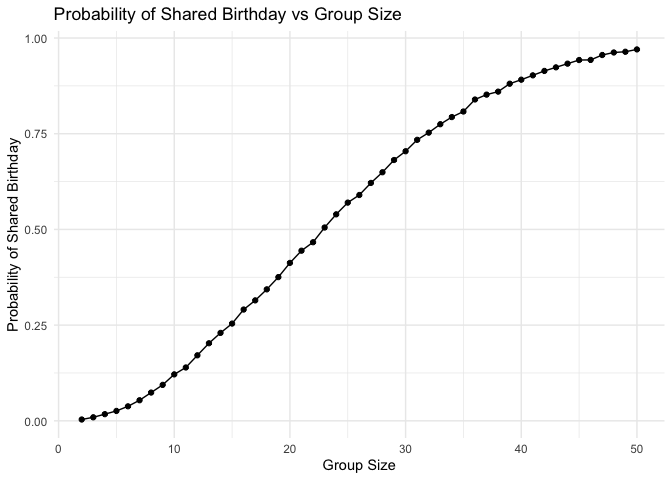
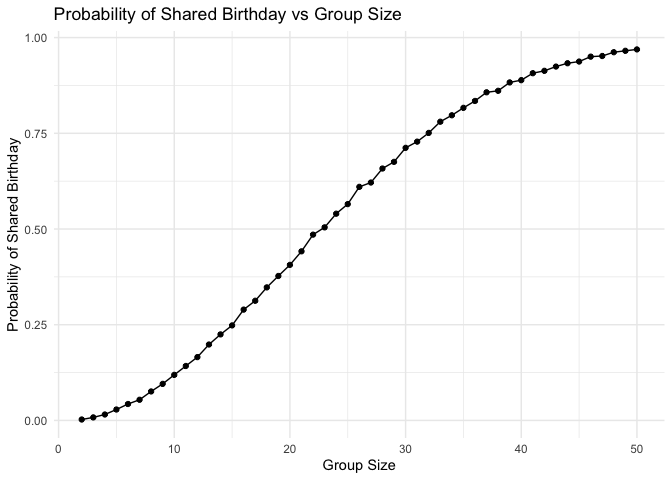
simulation results for question 2

diff --git a/p8105_hw5_jc6422.md b/p8105_hw5_jc6422.md
@@ -51,16 +51,16 @@ results
     ## # A tibble: 49 × 2
     ##    group_size probability
     ##         <int>       <dbl>
-    ##  1          2      0.0034
-    ##  2          3      0.0092
-    ##  3          4      0.0174
-    ##  4          5      0.0258
-    ##  5          6      0.0379
-    ##  6          7      0.0537
-    ##  7          8      0.0738
-    ##  8          9      0.0939
-    ##  9         10      0.121 
-    ## 10         11      0.139 
+    ##  1          2      0.0024
+    ##  2          3      0.0079
+    ##  3          4      0.0155
+    ##  4          5      0.0285
+    ##  5          6      0.0429
+    ##  6          7      0.054 
+    ##  7          8      0.0757
+    ##  8          9      0.0955
+    ##  9         10      0.119 
+    ## 10         11      0.142 
     ## # ℹ 39 more rows
 
 Make a plot showing the probability as a function of group size.
@@ -82,4 +82,53 @@ This plot shows the relationship between the probability of shared
 birthday and group size, as the group size increases, the probability of
 at least two people sharing a birthday rises rapidly. This growth is
 nonlinear. The probability increasing quickly at first and flattening as
-it appraches 1 according to the group size appraches to 50.
+it approaches 1 according to the group size approaches to 50.
+
+## Question 2
+
+Simulation parameters
+
+``` r
+n = 30         
+sigma = 5  
+mu = 0
+datasets = 5000 
+alpha = 0.05
+mu_values = 1:6
+```
+
+Run the simulation by using `broom::tidy` to clean the output of
+`t.test`.
+
+``` r
+output = vector ("list", length = datasets)
+  
+for ( i in 1:datasets) {
+  sample_data = rnorm(n, mean = mu, sd = sigma)
+  t_test = broom::tidy(t.test(sample_data, mu = mu))
+  
+  output[[i]] = tibble(
+    mu = mu,
+    mean_estimate = t_test$estimate,
+    p_value = t_test$p.value,
+    reject_null = t_test$p.value<alpha
+  )
+  }
+sim_results = bind_rows(output)
+sim_results
+```
+
+    ## # A tibble: 5,000 × 4
+    ##       mu mean_estimate p_value reject_null
+    ##    <dbl>         <dbl>   <dbl> <lgl>      
+    ##  1     0       -2.35    0.0141 TRUE       
+    ##  2     0       -0.447   0.651  FALSE      
+    ##  3     0        0.701   0.478  FALSE      
+    ##  4     0       -0.968   0.245  FALSE      
+    ##  5     0       -0.283   0.747  FALSE      
+    ##  6     0        0.612   0.439  FALSE      
+    ##  7     0       -0.557   0.590  FALSE      
+    ##  8     0       -0.0333  0.971  FALSE      
+    ##  9     0        0.900   0.279  FALSE      
+    ## 10     0       -0.700   0.438  FALSE      
+    ## # ℹ 4,990 more rows
